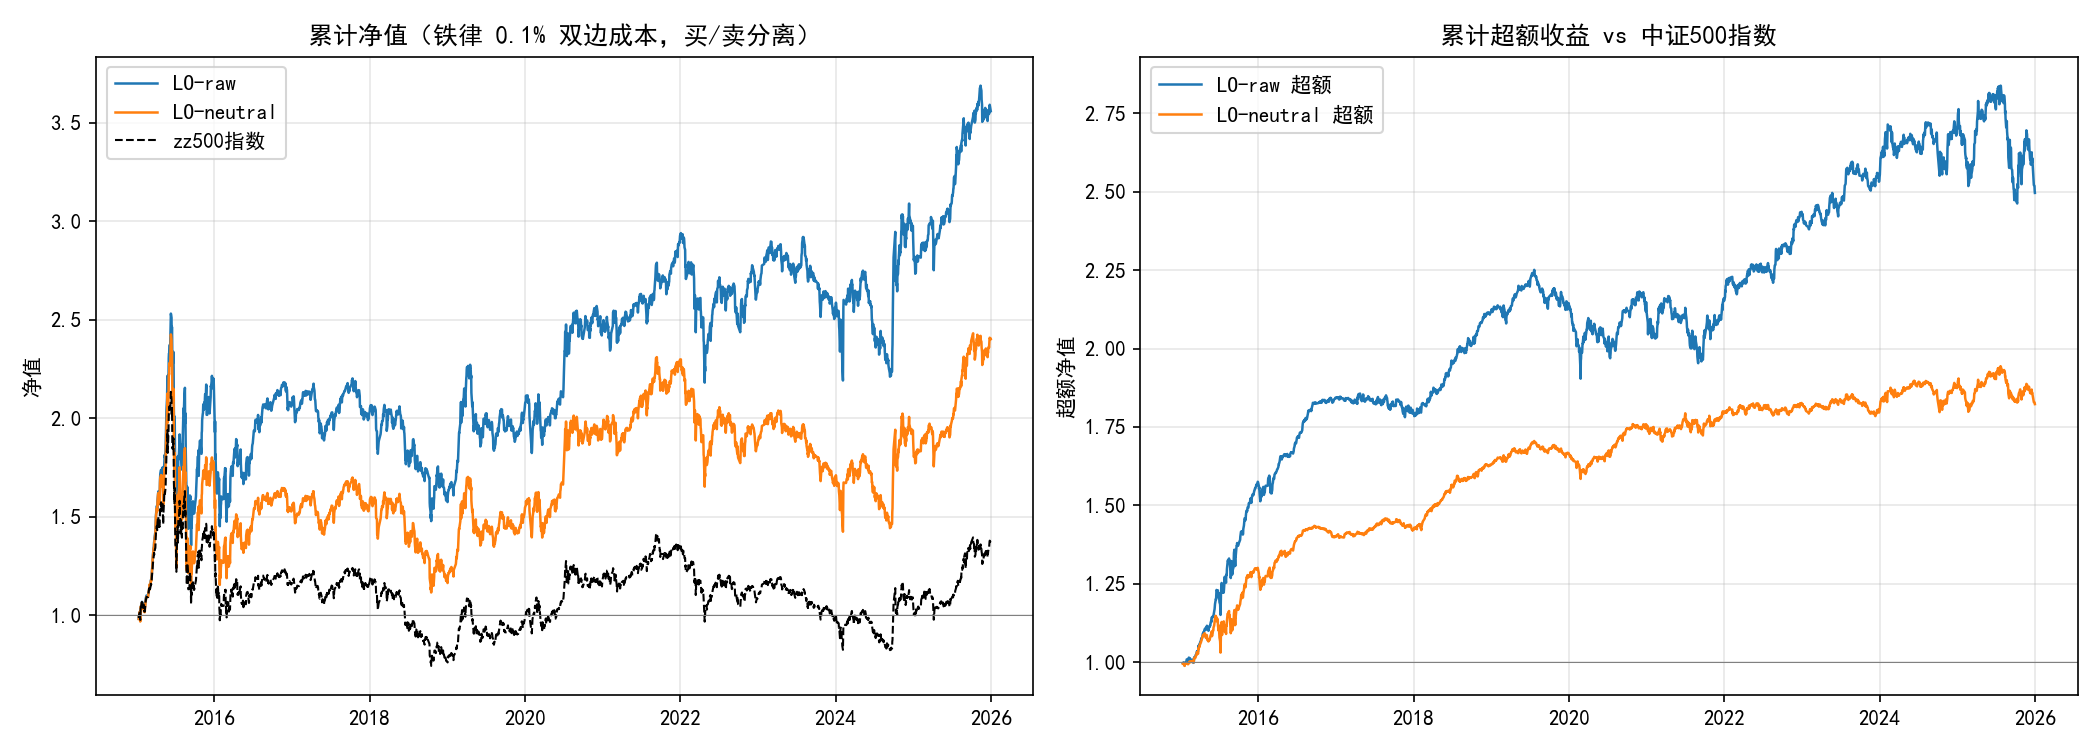
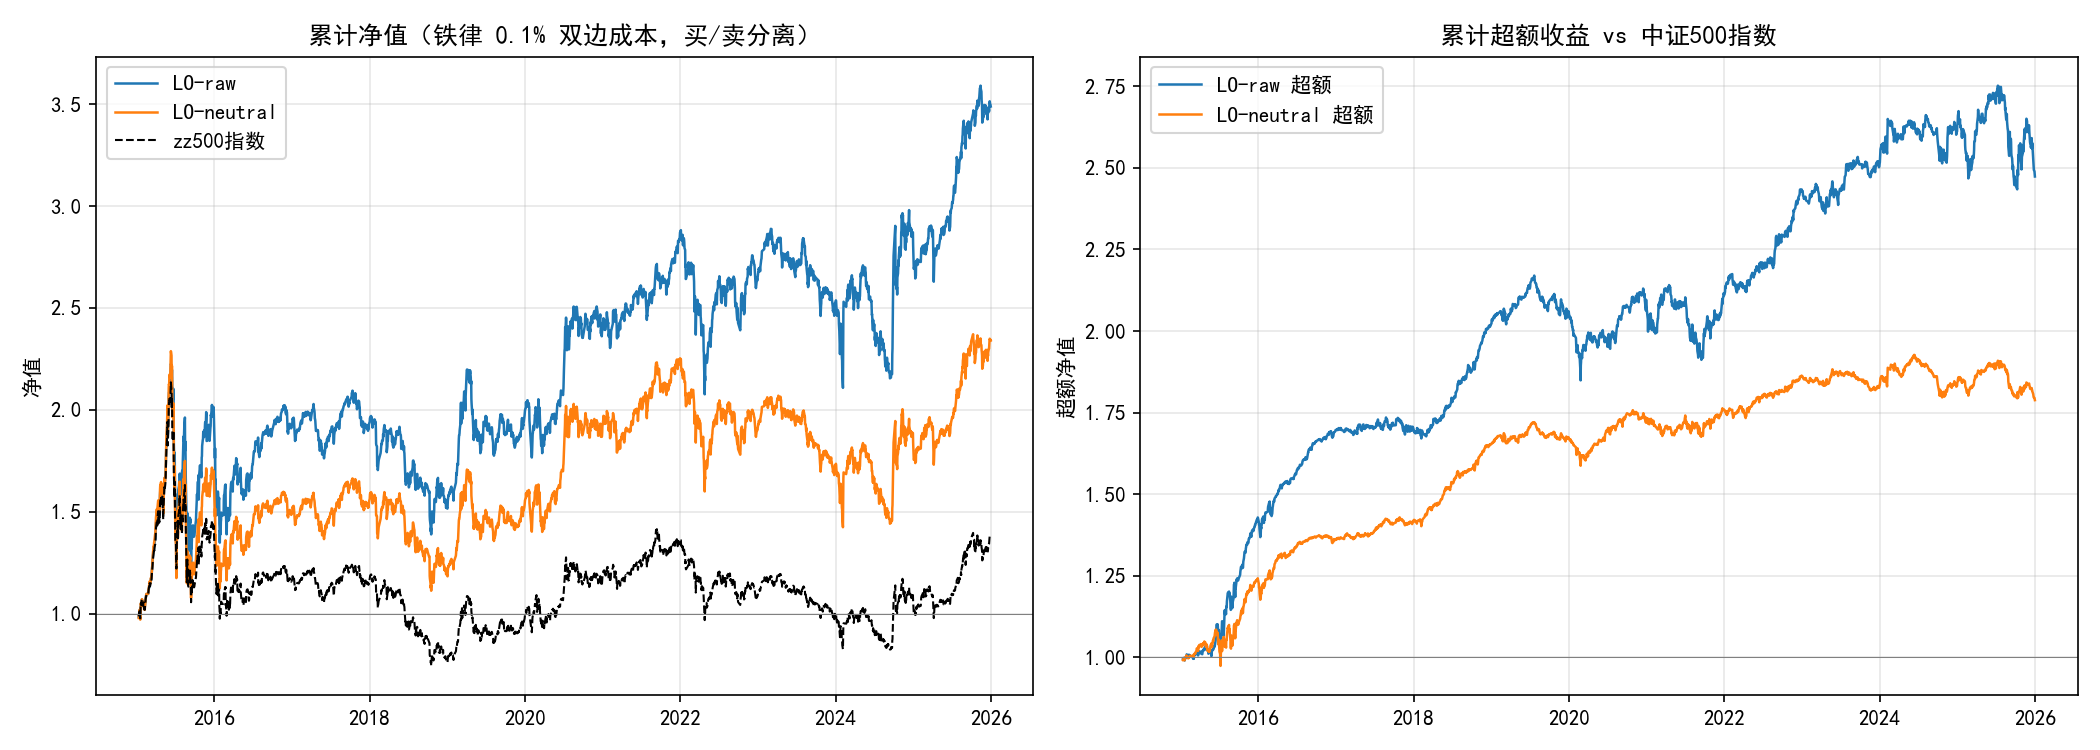
zz500_pit_trial: P1/P2 按 Alpha191 修复后口径重跑（收口 10-24 遗留）
P1（enhance.py / neutralize.py / capacity.py 全流程重算）：
- LO-raw     年化 12.5%、夏普 0.59、回撤 -44.3%、超额 8.9%、TE 7.48%、IR 1.18、p=0.041
- LO-neutral 年化 8.4%、 夏普 0.43、回撤 -53.0%、超额 5.6%、TE 5.55%、IR 1.02、p=0.102
- 中性化诊断：残差相关 0.849，Rank IC 0.0517→0.0290（-44%），行业暴露 0.155→0.090（-42%）
- 容量：0.5亿 k=0.3 SR 0.381 / 2亿 0.333 / 5亿 0.277 / 20亿 0.125 / 50亿 -0.042
        0.5亿 k=1.0 SR 0.269 / 50亿 -1.139
- 判决不变：方向转正、可交易性存疑的中间态（容量上限仍 <0.5 亿）

P2（bear_short.py 全流程重算）：
- 永续空头 SR +0.10 → gated（borrow 0%）SR +0.19、年化 +1.78%
- borrow 8%：年化 -1.83%、SR -0.007；borrow 10%：年化 -2.71%、SR -0.056
- 剔除 2018（borrow 8%）：年化 -5.5%、SR -0.24
- Block bootstrap p：0.275 / 0.501 / 0.430 全部不显著
- 选股 alpha +5.9%（选股 +1.8%/SR+0.19 vs 纯择时 -4.1%/SR-0.15）
- 判决不变：否定（主导项仍是 8-10%/年融券成本）

关键观察：因子口径修复使整体收益水平系统性下移（zz500 指数基准 6.6%→3.2%，
组合同步下移），但两节的**方向性判决完全不敏感** —— 这本身是结论稳健性的证据，
比数字本身更有价值。

报告开头与各节顶部均替换为「已重跑」+ 新旧数字对照表；正文旧表保留以记录过程。
tests: 311 passed。

diff --git a/README.md b/README.md
@@ -71,7 +71,7 @@ quant/
 | 5 | [`factor_discovery`](strategies/factor_discovery/report.md) | 因子提纯 | ⛔ **不可修复**：141 是「纸老虎」（IC 高无分散度），055/001 价格绝对量受前复权污染 |
 | 6 | [`feature_selection`](strategies/feature_selection/report.md) | 特征选择 | **191→15 因子**（新口径重筛 2026-10-24；三维通过 **30** = 口径修复时 29 + 算子修复新增 alpha149，后未进池；成分换 9），PIT 沪深300 |
 | 7 | [`models/report.md`](models/report.md) | ML 非线性合成 | **方法论修正 I–VI**：夏普 8.75→0.08 的完整踩坑史 + 成本 bug + Alpha191 口径/算子修复；canonical WF 22.32%/1.582，**唯一可引用去 bias LS 年化 4.93%、夏普 0.524、回撤 −22.51%** |
-| 8 | [`zz500_pit_trial`](strategies/zz500_pit_trial/report.md) | 路线② 量价×中证500 | 新口径全链重跑（1622 只）：**去 bias WF 夏普 1.350 / 年化 16.16% / 回撤 −20.91%**；含 bias 的 WF 2.521、LS 2.327、OOF IC 0.0863 不可单独引用。**P1/P2 仍为修复前口径** |
+| 8 | [`zz500_pit_trial`](strategies/zz500_pit_trial/report.md) | 路线② 量价×中证500 | 新口径全链重跑（1622 只）：**去 bias WF 夏普 1.350 / 年化 16.16% / 回撤 −20.91%**；含 bias 的 WF 2.521、LS 2.327、OOF IC 0.0863 不可单独引用。**P1/P2 已于 2026-11-18 按新口径重跑**：P1 中间态（LO-raw 超额 +8.9%、IR 1.18、p=0.041；中性化后 IR 1.02、p=0.102；容量 0.5 亿 SR 0.381 <0.5），P2 否定（gated borrow 0% SR +0.19、p=0.275；8% 融券后年化 −1.83%） |
 | 9 | [`zz500_fundamental_trial`](strategies/zz500_fundamental_trial/report.md) | 方向2 基本面 | 换源 akshare，20 因子三层检验全否定，弧线闭合（不受 Alpha191 口径修复影响） |
 | 10 | [`zz500_crowding_trial`](strategies/zz500_crowding_trial/report.md) | 方向C 市场结构 | 量价延续 vs 基本面反转双面体 + 低拥挤择时可交易性初探（中证500 基线） |
 | 11 | [`hs300_crowding_trial`](strategies/hs300_crowding_trial/report.md) | 方向C 延伸④ 跨指数 | **跨指数两指数同池重跑**：量价拥挤度**方向相反**（zz500 Q4 **−0.084%** t=−1.90 vs hs300 **+0.103%** t=2.31）；基本面同向但效应量差 4.4×；**撤销**旧「p=0.0002 确证负 alpha」（系 0.3% 成本 bug）；择时两边都不显著 |
